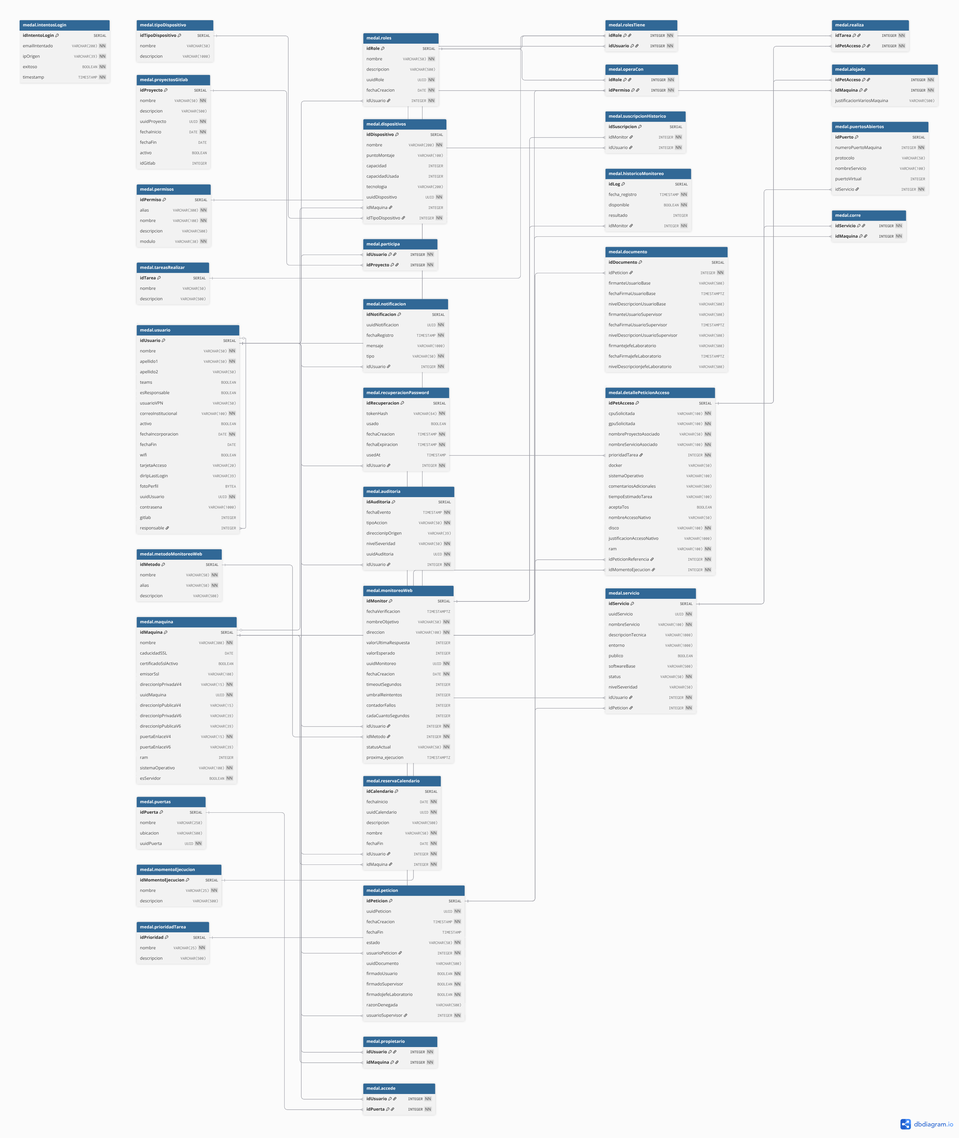
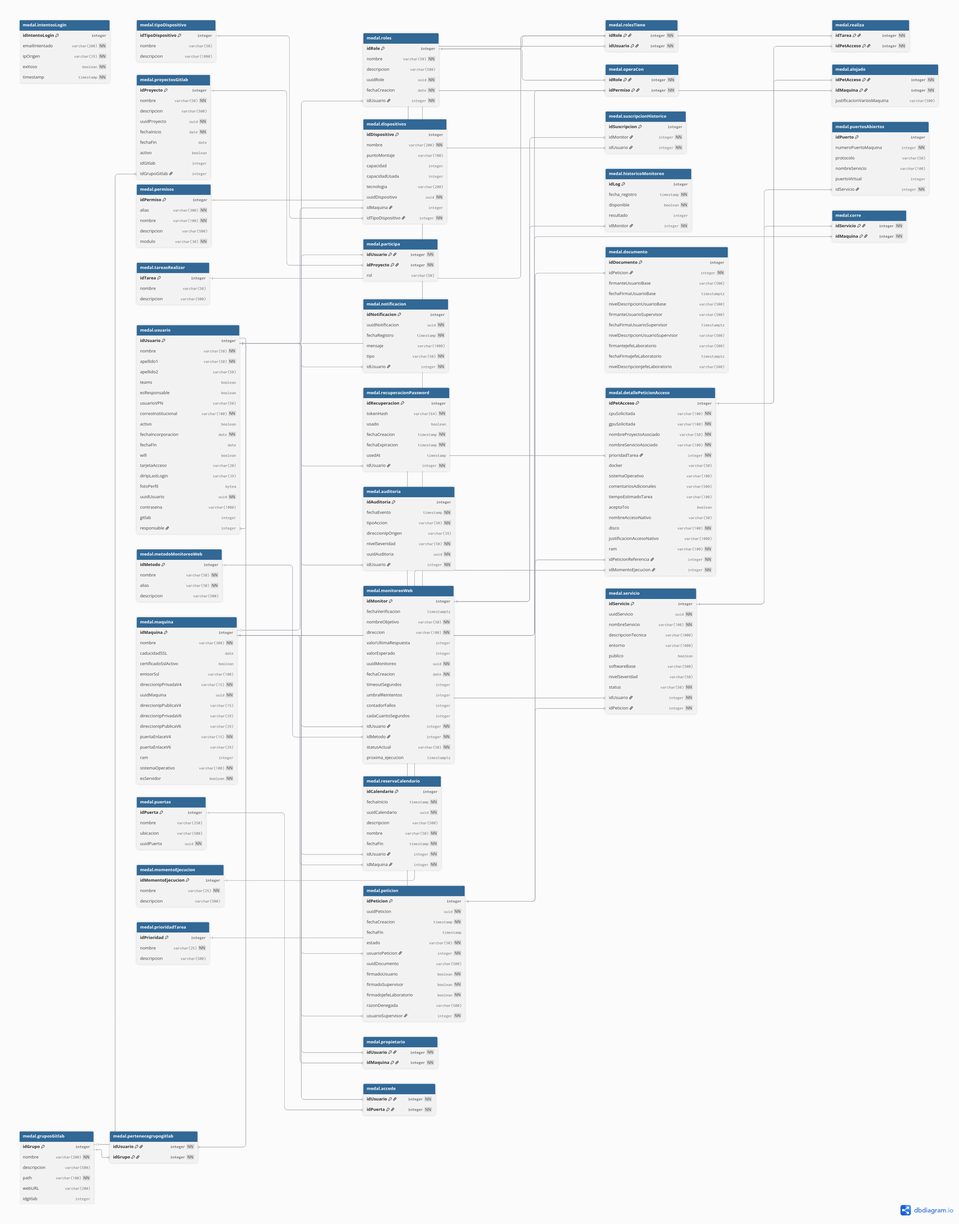
Update de la memoria en base a retroalimentación del tutor.

diff --git a/memoria/capitulos/incrementos/incremento-iv.tex b/memoria/capitulos/incrementos/incremento-iv.tex
@@ -1,5 +1,5 @@
-\chapter{Incremento IV:}
-\section{Especificación y modelado:}
+\chapter{Incremento IV}
+\section{Especificación y modelado}
 
 % Se presenta a continuación el flujo de trabajo empleado en el desarrollo de las integraciones de sistemas. Para garantizar la alineación con la infraestructura existente, se consultó al coordinador de informática del centro, permitiendo así catalogar los servicios externos activos en el laboratorio MEDAL y definir el alcance de cada integración planteada.
 
@@ -49,42 +49,53 @@ RF17 & Gestión de usuarios en el NAS del laboratorio. & Incremento 4 \\
 \end{center}
 \normalsize
 
-\section{Integración de terceros: SMTP Google}
+\section{Integración de terceros SMTP Google}
 
 Para el sistema de notificaciones, se ha integrado el servicio de mensajería de Google (Gmail), aprovechando la infraestructura preexistente en el laboratorio y sabiendo que el volumen de envíos se mantenga dentro de los umbrales de seguridad permitidos por el proveedor. La integración técnica se realiza mediante contraseñas de aplicación. El sistema de correo electrónico trabaja con un modelo editor suscriptor donde hay presentes diferentes tipos de editores. Entre los editores se puede encontrar a la API que delega la tarea de envío de correos electrónicos al Worker y el sistema de monitorización y el cron con su servicio de notificaciones. Este sistema permite el desacople de latencias sobre los endpoints presentes en la API dando una experiencia fluida al usuario. \cite{npm_nodemailer_usage, npm_nodemailer} 
  
 % Siguiendo la filosofía de diseño modular del proyecto, este servicio se ha implementado mediante una arquitectura dirigida por eventos (Event-Driven Architecture). Bajo este enfoque, la API actúa como el editor, emitiendo eventos de dominio ante acciones relevantes, mientras que el módulo de correo funciona como el Suscriptor. Esta estructura permite un procesamiento asíncrono donde el módulo de notificaciones gestiona la carga de manera independiente al flujo principal de la API, desacoplando la latencia del protocolo SMTP de los tiempos de respuesta de los endpoints.
 
 
-\section{Integración de terceros: Servidores Linux}
+\section{Integración de terceros Servidores Linux}
 Para la integración de los servidores linux se propone la herramienta mencionada en el incremento III que se encarga de la creación de entorno de desarrollos exclusivos para cada investigador.
 
-\section{Integración de terceros: QNAP}
+\section{Integración de terceros QNAP}
 
 Según la información presente en foros y la información oficial de la plataforma, es necesario formar parte del Developer Program para poder acceder a la API. \cite{qnap_developer, reddit_qnap_automation} 
 
 
-\section{Integración de terceros: LDAP y VPN}
-Tras investigación y la falta de documentación oficial en respuesta a las necesidades, se podría plantear webScrapping o el uso de algún modelo de inteligencia artificial para la realización de la tarea. \cite{elconfidencial_claude_computer_use} 
+\section{Integración de terceros Gitlab}
 
-\section{Integración de terceros: Gitlab}
-
-\subsection{Descripción del servicio instalado:}
+\subsection{Descripción del servicio instalado}
 
 La arquitectura actual del sistema se basa en un microservicio desplegado mediante \texttt{Docker}. Tras analizar las diversas metodologías de integración con servicios externos, se ha determinado que el mejor diseño consiste en establecer una comunicación vía \textbf{API}, empleando la autenticación mediante \textbf{tokens de usuario} para garantizar la seguridad y eficiencia en el intercambio de información. \cite{GITLAB_TOKEN}
 
 \subsection{Operaciones permitidas con este servicio de terceros en la página web:}
 El sistema permite las siguientes operaciones con este servicio de terceros:
+
 \begin{itemize}
-  \item \texttt{Creación de nuevos usuarios.}
-  \item \texttt{Modificación de nombres de usuarios de cuentas ya existente.}
-  \item \texttt{Creación de nuevos repositorios de código.}
-  \item \texttt{Obtención de información general asociada a un proyecto e historial de commits.}
-  \item \texttt{Archivar y Desarchivar proyectos en Gitlab.}
-  \item \texttt{Bloqueo de usuarios.}
-  \item \texttt{Modificación de los integrantes colaboradores en un repositorio.}
+\item \texttt{Creación de nuevos usuarios en el sistema.}
+\item \texttt{Modificación de nombres de usuario de cuentas existentes.}
+\item \texttt{Bloqueo de usuarios.}
+\item \texttt{Creación de nuevos repositorios en el namespace del usuario root.}
+\item \texttt{Obtención de información general de un proyecto, incluyendo estadísticas y historial de commits.}
+\item \texttt{Consulta de repositorios con estadísticas para usuarios individuales y grupos.}
+\item \texttt{Modificación de los colaboradores de un repositorio, a excepción del owner.}
+\item \texttt{Gestión de acceso en repositorios de grupo, permitiendo añadir usuarios como invitados sin modificar la configuración del grupo.}
+\item \texttt{Archivado y desarchivado de repositorios.}
+\item \texttt{Sincronización automática mediante un worker que mantiene actualizada la base de datos interna con la información más reciente de los repositorios.}
 \end{itemize}
+
 Todo esto se realiza mediante la integración a través de la cuenta de \textbf{root}.
+
+A pesar de estas posibilidades el trabajo actual tiene ciertas limitaciones:
+\begin{itemize}
+\item \texttt{La creación de repositorios está restringida al namespace del usuario root; no es posible crearlos en namespaces de otros usuarios o grupos.}
+\item \texttt{No es posible modificar al owner de un repositorio.}
+\item \texttt{La gestión de usuarios en repositorios de grupo opera únicamente a nivel de invitado, sin posibilidad de modificar roles internos del grupo.}
+\item \texttt{No se contemplan operaciones sobre grupos como creación, edición o eliminación.}
+\item \texttt{No hay soporte para otras entidades de GitLab como issues, merge requests o pipelines.}
+\end{itemize}
 
 En la figura \ref{fig:detalle_gitlab} se puede ver la pantalla de información específica de un repositorio. Concretamente es un mock del repositorio de gitlab de este proyecto.
 
@@ -95,7 +106,7 @@ En la figura \ref{fig:detalle_gitlab} se puede ver la pantalla de información e
  \label{fig:detalle_gitlab}
 \end{figure}
 
-\subsection{Armonización de datos:}
+\subsection{Armonización de datos}
 
 Con el objetivo de mantener una única fuente de verdad, se necesita un proceso de armonización y extracción de la información de los datos de los repositorios. Para ello se diseña el siguiente flujo ilustrando en la figura \ref{fig:flujo_gitlab}, que puede iniciarse con dos disparadores, mediante un cron que realizará la ejecución autónoma del proceso o con un evento de alta de usuario recibido a través de la cola de mensajes. Independientemente del disparador, ambas vías convergen en el orquestador, que es el componente encargado de iniciar y coordinar el proceso completo de armonización.
 
@@ -109,10 +120,15 @@ El flujo sigue los siguientes pasos. En primer lugar se itera sobre todos los us
 \end{figure}
 
 
-Esta integración permite la creación de proyectos para el usuario root en su namespace de manera guiada. En los repositorios ajenos, que figuran tras la carga del sistema, permite edición de usuarios presentes en el, salvo el usuario raíz. Permite archivar cualquiera de los repositorios presentes en el sistema. En los repositorios de grupos permite añadir gente a los repositorios sin tener pertenencia en los grupos. 
+
+La integración actual cubre las operaciones esenciales de gestión de usuarios y repositorios, pero aún existe un amplio margen de mejora. El trabajo se podría extender a la creación de repositorios a namespaces de otros usuarios y grupos, ampliar la gestión de roles más allá del nivel de invitado en repositorios de grupo, e incorporar operaciones completas sobre grupos. A más largo plazo, se puede contemplar una mayor cobertura de la API de GitLab para dar soporte a entidades como issues, merge requests y pipelines, con el objetivo de ofrecer una integración más completa y autónoma desde la propia aplicación.
+
+\section{Marco teórico Integración de terceros LDAP y VPN}
+Tras investigación y la falta de documentación oficial en respuesta a las necesidades, se podría plantear webScrapping o el uso de algún modelo de inteligencia artificial para la realización de la tarea. \cite{elconfidencial_claude_computer_use} 
 
 
-\section{Integración de Terceros: Sistema de identificación de usuarios (SIU UPM)}
+
+\section{Marco teórico Integración de Terceros Sistema de identificación de usuarios (SIU UPM)}
 
 En este punto, nos encontramos en la situación de que el sistema debe permitir al usuario identificarse de manera segura. Podemos encontrar principalmente dos tipos de usuarios.
 
@@ -132,3 +148,12 @@ En primera instancia, el objetivo es utilizar el SIU para el personal asociado a
  \label{fig:diagrama_identificacion}
 \end{figure}
 
+\section{Marco teórico Integración de Terceros Gestor de Puertas NUKI}
+Para la integración de este servicio, basándome en la documentación oficial de Nuki, se podría realizar la integración vía API, disponible en el portal de desarrollador \href{https://api.nuki.io/}{API de Nuki}.
+
+
+\section{Marco teórico Integración de Terceros Servicio de @firma:}
+Para la integración del servicio de firma electrónica se han dado los primeros pasos, se ha creado un servicio gestionable desde la página web con apache tomcat, donde se deben desplegar los servicios de @firma para su integración. Tras haber realizado esto, se tendría que incorporar a la web. \cite{autofirma2026manual} 
+
+\section{Marco teórico Servidores Linux}
+En el incremento III se proporcionan unos ejecutables de automontaje y creación de entornos de usuario para la ejecución sobre las máquinas. El siguiente paso, para finalizar la integración sería la creación de un conector entre los ejecutables y el servicio de este proyecto. 

diff --git a/memoria/capitulos/02_metodologia.tex b/memoria/capitulos/02_metodologia.tex
@@ -1,17 +1,17 @@
-\chapter{Metodología y Ciclo de Vida:}
-\section{Ciclo de Vida:}
+\chapter{Metodología y Ciclo de Vida}
+\section{Ciclo de Vida}
 
 Para la realización del TFG se va a utilizar un ciclo de vida \textbf{Incremental}. Se va a utilizar este enfoque para abordar las tareas de forma modular a la hora de integrar los servicios externos. 
 
 
-\subsection{Incrementos:}
+\subsection{Incrementos}
 El proyecto se va a dividir en los siguientes incrementos: 
 
-\subsubsection{Incremento I: Definición de requisitos y de tecnologías}
+\subsubsection{Incremento I Definición de requisitos y de tecnologías}
 
 En el primer incremento se van a definir los requisitos principales que rigen la aplicación y las tecnologías que se van a usar en el resto de incrementos.
 
-\subsubsection{Incremento II: Backend y Frontend de la aplicación}
+\subsubsection{Incremento II Backend y Frontend de la aplicación}
 
 En este incremento se va a trabajar con la parte central del proyecto, el core, donde se va a encontrar el ciclo de vida del usuario. Esta parte incluye la base de datos relacional de los usuarios y el periodo de pertenencia en el grupo.
 
@@ -20,7 +20,7 @@ Las funcionalidades que se buscan implementar en este ciclo son la gestión de r
 \notaseguridad{Hay que destacar que en el sistema la base de datos que se construye va a ser el \textbf{Single Source of True} \cite{atlassian_ssot},esto se debe a que va a ser el punto centralizado donde está contenido toda la información y todos los permisos que tiene un usuario. De esta manera se puede minimizar el vector de ataque con cuentas de usuarios que ya no están o servicios que no deberían seguir funcionando.}
 
 
-\subsubsection{Incremento III: Infraestructura}
+\subsubsection{Incremento III Infraestructura}
 
 En este incremento se van a gestionar los conflictos que se encuentran en los servidores con los usuarios nativos. Las funcionalidades principales a implementar son los conectores con los servidores y la gestión de recursos de cada usuario. Además se mantendrá un registro de autorizaciones de los servicios que tiene cada una de las personas. 
 
@@ -35,32 +35,32 @@ Los servicios al personal tendrán cinco estados:
 \end{itemize}
 
 
-\subsubsection{Incremento IV: Integración con servicios externos}
+\subsubsection{Incremento IV Integración con servicios externos}
 
 En este incremento se busca trabajar con APIs de terceros para poder gestionar servicios asociados. Dentro de este paso estarían las conexiones con el GitLab, Microsoft Teams y los servicios de VPN.
 
 
-\subsubsection{Incremento V: Auditoría y Cumplimiento}
+\subsubsection{Incremento V Auditoría y Cumplimiento}
 En este incremento se busca la implementación de un módulo de trazabilidad para medir la robustez. Debido a la estimación en la memoria intermedia de este incremento se debe rescindir. 
 
 Para ello, se tomarán como referencia las directrices del \textbf{NIST Cybersecurity Framework (CSF)}, específicamente en las funciones de \textit{Protect} (Protección) y \textit{Detect} (Detección). Se implementará un sistema de \textit{logging} exhaustivo que garantice la trazabilidad de todas las operaciones de provisión de servicios, cumpliendo con las recomendaciones del estándar \textbf{NIST SP} sobre gestión de registros de log. \cite{nist_csf}
 
 
-\subsection{Estructura de los incrementos:}
-El primer ciclo, es el único exento de esta estructura ya que se definen globalmente los requisitos que se deben cumplir en el sistema y las tecnologías que se van a usar en primera instancia.  
+\subsection{Estructura de los incrementos}
+El primer incremento y el cuarto incremento, son los único exentos. El primero está exento ya que se definen globalmente los requisitos que se deben cumplir en el sistema y las tecnologías que se van a usar en primera instancia.  El cuarto se encuentra exento ya que se explican posibles soluciones con marco teórico y la integración de gitlab tienen su propia información. 
 
-\subsubsection{Especificación y modelado:} 
+\subsubsection{Especificación y modelado} 
 
 En esta etapa se revisan los requisitos y las tecnologías que se van a usar en busca de detalles más específicos. Además, se van a diseñar los diferentes casos de uso del incremento. 
 
-\subsubsection{Diseño de la solución:}
+\subsubsection{Diseño de la solución}
 
 Diseño de las pantallas que se van a utilizar y los botones que controlan las diferentes pantallas. Definición de la lógica que se va a utilizar en la implementación. 
 
-\subsubsection{Implementación y codificación:}
+\subsubsection{Implementación y codificación}
 Programación de la lógica de negocio de cada uno de los incrementos. 
 
-\subsubsection{Validación y cierre:}
+\subsubsection{Validación y cierre}
 Pruebas de cada una de las funcionalidades individuales y pruebas de integración con los ciclos anteriores. Documentación técnica para la memoria del TFG.
 
 En el apartado de validación y cierre se van a documentar casos de ataque asociados al incremento para verificar la seguridad de la aplicación o servicio.

diff --git a/memoria/capitulos/06_ficha_final_horarios.tex b/memoria/capitulos/06_ficha_final_horarios.tex
@@ -1,0 +1,22 @@
+
+\chapter{Trabajo final realizado}
+\section{Resumen del trabajo realizado para la entrega final}
+% En la última parte del proyecto, se han finalizado los módulos restantes para la finalización de la formación en el programa del TFG. En el ámbito del de diseño y desarrollo se han implementado las pantallas de calendario, que permitirán al personal investigador la reserva de horas de cómputo. En el requisito de de la prevención de acceso nativo junto a la herramienta de code-server se ha diseñado la solución final que junto scripts son capaces de proporcionar entornos de desarrollo virtualizados y seguros. Además de esto, se ha perfeccionado la integración de terceros de gitlab, en el ámbito de armonización de los datos en nuestra base de datos de verdad. Por último se han creado pruebas de usabilidad del producto mínimo viable desarrollado así como su evaluación mediante el UEQ. Se ha realizado el análisis de los resultados.
+
+% En la última etapa del proyecto se han completado los módulos restantes que conforman el alcance del TFG. En el ámbito del diseño y desarrollo, se han implementado las pantallas de calendario, que permitirán al personal investigador reservar franjas horarias de cómputo de forma autónoma. Respecto a la prevención del acceso nativo a las máquinas, se ha diseñado e implementado la solución definitiva que, mediante scripts especializados, es capaz de proporcionar entornos de desarrollo virtualizados y seguros en combinación con la herramienta code-server. Asimismo, se ha perfeccionado la integración con GitLab, consolidando la armonización y consistencia de los datos en la base de datos como fuente de verdad del sistema. Por último, se han diseñado y llevado a cabo pruebas de usabilidad sobre el producto mínimo viable desarrollado, evaluando los resultados obtenidos mediante el cuestionario UEQ (User Experience Questionnaire) y analizando las conclusiones derivadas de dicha evaluación.
+
+En la última etapa del proyecto se han completado los módulos restantes de formación del TFG. En el ámbito de diseño de la solución y su desarrollo se han implementado las pantallas de calendario, las cuales permitirán al personal investigador para la reserva de franjas horarios de cómputo. Esto, permite una mayor organización de los recursos de las máquinas. Respecto al acceso nativo de las máquinas, se ha diseñado e implementado una solución que mediante unos scripts de automatización es capaz de proporcionar entornos de desarrollo virtualizados y seguros junto a los contenedores de code-server, se ha pasado a producción en uno de los servidores del laboratorio. Además, se ha mejorado la integración con el servicio de Gitlab, consolidando la armonización y consistencia de los datos presentes en la base de datos como fuente única de verdad en el sistema. Por último se han diseñado y llevado a cabo pruebas de usabilidad sobre el producto mínimo viable para su posterior evaluación mediante técnicas de evaluación en entrevistas y el relleno del cuestionario del UEQ para su posterior análisis. Con respecto al resto de integraciones, se realiza un pequeño marco teórico para poder conocer que recursos están a disposición para el desarrollo e incorporación. Debido a la mejora de la integración de gitlab no se ha podido llevar a cabo la integración de NUKI. 
+
+
+\section{Cronograma final de gannt}
+En la figura \ref{fig:gantt_mermaid_final} se puede ver el cronograma final de desarrollo.
+
+\clearpage
+\begin{sidewaysfigure}[pH]
+    \centering
+    \includegraphics[width=\textheight, keepaspectratio]{gannt-final/gannt_final.png}
+    \caption{Cronograma del desarrollo final.}
+    \label{fig:gantt_mermaid_final}
+\end{sidewaysfigure}
+
+

diff --git a/memoria/capitulos/incrementos/incremento-iii.tex b/memoria/capitulos/incrementos/incremento-iii.tex
@@ -31,8 +31,8 @@ RF5 & & Interfaz en tiempo real de los recursos consumidos por los contenedores 
 
 
 
-\section{Diseño de la solución:}
-\subsection{Estructura dockerizada de CodeServer:}
+\section{Diseño de la solución}
+\subsection{Estructura dockerizada de CodeServer}
 Los CodeServer son docker especializados con un formato de uso similar a Visual Studio Code. \href{https://github.com/coder/code-server?tab=readme-ov-file}{Proyecto Code Server.}
 
 En la figura \ref{fig:code_server} se detalla el proceso de comunicación entre el cliente y el servicio \texttt{code-server}. En primer lugar, el cliente establece una conexión a través de un servidor \textbf{Nginx}, que actúa como intermediario gestionando la autenticación por usuario y contraseña. Tras la validación, el tráfico se redirige a la instancia específica de cada cliente, quien opera en un entorno aislado y controlado, garantizando una gestión segura y virtualizada de los recursos del servidor. \cite{github_code_server}
@@ -46,7 +46,7 @@ En la figura \ref{fig:code_server} se detalla el proceso de comunicación entre 
 \end{figure}
 
 
-\section{Implementación y Codificación:}
+\section{Implementación y Codificación}
 
 Para cumplir con los requisitos de este incremento se realiza la siguiente implementación.
 
@@ -77,11 +77,11 @@ Para facilitar el cambio organizacional se proporciona un script de instalación
 
 
 
-\section{Validación y Cierre:}
+\section{Validación y Cierre}
 
 Con el objetivo de validar la estabilidad del sistema, se han realizado pruebas a dos niveles principales, el primero de ellos a nivel de CPU y el segundo de ellos a nivel gráfica. En ambos casos, se han validado con pruebas de estrés.
 
-\subsection{Pruebas de estrés a la CPU:}
+\subsection{Pruebas de estrés a la CPU}
 
 Para la verificación de funcionamiento de la CPU se hace uso del mandato \texttt{stress-ng} \cite{stress_ng_manpage}. Con el código \ref{lst:stress_ng_taskset} se realizan unas pruebas en unos núcleos específicos que demuestran la posibilidad de ejecución multicore en la máquina. 
 
@@ -90,7 +90,7 @@ taskset -c 29,30,31 stress-ng --cpu 3 --cpu-load 80 -t 1m
 \end{lstlisting}
 
 
-\subsection{Pruebas de estrés a la GPU:}
+\subsection{Pruebas de estrés a la GPU}
 
 Para la validación de la prueba de estrés de la GPU para realizar las pruebas se hace uso de un script de python mediante la librería de torch, que crea tensores de números aleatorios hasta consumir la totalidad de espacio disponible en la gráfica, validando la conexión con el driver y su funcionamiento bajo estrés de reservas. El código está disponible en el anexo \ref{lst:stress_vram_python}.
 

diff --git a/memoria/capitulos/05_conclusiones.tex b/memoria/capitulos/05_conclusiones.tex
@@ -1,2 +1,13 @@
 \chapter{Conclusiones y trabajo futuro:}
 % TODO: Hacer. BDD de virus, integrar el proceso de @firma en la página web en vez del upload. Integración con el resto de servicios externos. 
+
+Este proyecto ha permitido desarrollar una plataforma de gestión de infraestructura que centraliza el control sobre usuarios, máquinas y repositorios, proporcionando una solución integral para entornos que requieren un alto grado de organización y seguridad. A lo largo del desarrollo se han aplicado buenas prácticas consolidadas en la industria, como el patrón MVC en el backend, una arquitectura basada en componentes en el frontend, diseño RESTful de la API, autenticación mediante tokens JWT y el uso de prepared statements para garantizar la seguridad frente a inyecciones SQL. La base de datos actúa como fuente de verdad única del sistema, asegurando la consistencia de la información en todo momento.
+A nivel personal, este proyecto ha puesto de manifiesto la importancia de contar con sistemas aislados, fuentes únicas de verdad y un control riguroso sobre las máquinas, con el fin de minimizar riesgos y evitar la pérdida de datos. El desarrollo por incrementos ha permitido iterar sobre las funcionalidades de forma ordenada, validando cada avance antes de abordar el siguiente.
+
+
+Aunque el proyecto cubre las funcionalidades esenciales alcanzado un producto mínimo viable, existen diversas líneas de mejora y expansión que quedan abiertas para iteraciones futuras.
+
+En el ámbito de la integración con GitLab, se contempla ampliar las funcionalidades al nivel de grupos, permitiendo una gestión más completa de los repositorios y sus miembros. En relación a los codeservers, se prevé la creación de colas de ejecución que permitan gestionar y ordenar los trabajos de manera eficiente, evitando conflictos por uso simultáneo de recursos. Además, se plantea el autodespliegue de los servicios de la página web, reduciendo la intervención manual en los procesos de puesta en producción. A nivel de arquitectura de la API, se tiene como objetivo alcanzar el máximo nivel del Richardson Maturity Model, incorporando controles HATEOAS para lograr una API completamente autodescriptible y navegable. Por último, se contempla la integración con una base de datos de firma de virus, con el fin de reforzar la seguridad del sistema frente a software malicioso en las peticiones, las upload del usuario.
+
+Además de lo anterior, quedaría añadir las integraciones externas planteadas de manera teórica.
+

diff --git a/memoria/capitulos/01_introduccion.tex b/memoria/capitulos/01_introduccion.tex
@@ -1,6 +1,6 @@
 \vspace*{-20cm} 
-\chapter{Introducción:}
-\section{Motivación: }
+\chapter{Introducción}
+\section{Motivación}
 
 En el ámbito del laboratorio Medical Analytics (en adelante MEDAL) en el Centro de Tecnología Biomédica (en adelante CTB) al estar ligado a la Universidad Politécnica de Madrid (en adelante UPM) se trata de un laboratorio con alta rotación de personal. En la rotación de personal se pueden distinguir los siguientes roles: contratados, profesores y prácticas entre otros. Cada nuevo integrante dependiendo de sus necesidades necesita acceso a diferentes servicios heterogéneos como pueden ser redes de internet, acceso a servidores y canales de comunicación entre otros. 
 
@@ -17,12 +17,12 @@ Esta falta de granularidad en el control de acceso ha derivado en problemas téc
 
 
 
-\section{Objetivos del proyecto:}
+\section{Objetivos del proyecto}
 Este Trabajo Fin de Grado surge de la necesidad de centralizar y automatizar el ciclo de vida de los usuarios dentro del grupo de investigación MEDAL. El objetivo principal es desarrollar una plataforma web que actúe como panel de control (dashboard), permitiendo la administración y provisión automática de servicios. 
 
 Esta solución no solo busca optimizar la carga administrativa, sino también mitigar los problemas derivados del \textbf{acceso nativo persistente} a los servidores del laboratorio. La plataforma propuesta permitirá orquestar estos accesos de forma granular, asegurando que la configuración de los servicios se mantenga íntegra y que cada investigador cuente con un entorno de trabajo estable y seguro, alineado con las necesidades específicas de su proyecto de investigación.
 
-\section{Estructura de la memoria:}
+\section{Estructura de la memoria}
 Para la estructuración del proyecto el documento se va a organizar de la siguiente manera:
 \begin{itemize}
   \item Incremento I: Definición de requisitos y de tecnologı́as.

diff --git a/memoria/capitulos/incrementos/incremento-i.tex b/memoria/capitulos/incrementos/incremento-i.tex
@@ -1,11 +1,11 @@
-\chapter{Incremento I:}
+\chapter{Incremento I}
 
-\section{Requisitos:}
+\section{Requisitos}
 
 En las siguientes tablas podemos ver los requisitos funcionales y no funcionales de la aplicación. En la tabla \ref{tab:rf_simple} se encuentran organizados los requisitos funcionales para el dashboard. Mientras que en la tabla \ref{tab:rnf_simple} podemos encontrar los requisitos no funcionales de la aplicación.
 
 
-\subsection{Requisitos funcionales:}
+\subsection{Requisitos funcionales}
 
 
 \begin{center}
@@ -58,7 +58,7 @@ RF14  & Registro de auditoría bajo un estándar NIST. & Incremento 5 \\
 \normalsize
 \newpage
 
-\subsection{Requisitos no funcionales:}
+\subsection{Requisitos no funcionales}
 \begin{table}[htbp]
     \centering
     \caption{Requisitos no Funcionales y su Incremento Asociado}
@@ -98,4 +98,10 @@ RF14  & Registro de auditoría bajo un estándar NIST. & Incremento 5 \\
 \bottomrule
 \end{tabularx}
 \end{table}
+
+\newpage
+
+\section{Estándares de codificación}
+
+En el desarrollo del proyecto para permitir el mantenimiento y la escalibidad se siguien las siguientes buenas práticas. El backend sigue el patrón de arquitectura Modelo-Vista-Controlador (MVC), mientras que el frontend se construye mediante una arquitectura con componentes. La API sigue un diseño RESTful, y la base de datos actúa como fuente de verdad única (single source of truth) del sistema. A nivel de seguridad, se emplea autenticación mediante tokens JWT y el uso de prepared statements para prevenir inyecciones SQL. En cuanto a la calidad del código, se aplica una nomenclatura consistente en camelCase, junto con linting y formateo automático. Por último, el control de versiones se gestiona mediante GitHub, permitiendo un seguimiento ordenado de los cambios a lo largo del desarrollo.
 

diff --git a/memoria/capitulos/04_analisis_impacto.tex b/memoria/capitulos/04_analisis_impacto.tex
@@ -16,3 +16,6 @@ Durante el desarrollo se identificó la necesidad de incorporar un sistema de mo
 % Gracias a la integración con GitLab, la gestión de los proyectos queda centralizada en una única plataforma, desde la que es posible crear y archivar proyectos, consultar el estado de la rama principal (main) de todos los proyectos del administrador, así como administrar los usuarios de dichos proyectos y gestionar las cuentas de usuario mediante su creación y bloqueo.
 
 La integración con GitLab centraliza en una única plataforma la gestión completa de los repositorios del laboratorio, lo que reduce significativamente la necesidad de acceder a múltiples herramientas externas. La posibilidad de gestionar los miembros de cada proyecto, controlar el estado de archivado y administrar las cuentas de usuario mediante la creación y el bloqueo de las mismas supone una mejora directa en la seguridad y el control de accesos, minimizando el riesgo de permisos no autorizados. En conjunto, esta integración aumenta la eficiencia operativa del administrador, reduciendo además los tiempos de gestión.
+
+\textbf{ALEJANDRO: SOBRE LOS ODS SE PODRÍA AÑADIR EL 9? CREO QUE ES EL QUE MAS ENCAJA}
+

diff --git a/memoria/main.tex b/memoria/main.tex
@@ -33,6 +33,7 @@
 \include{capitulos/01_introduccion}
 \include{capitulos/02_metodologia}
 \include{capitulos/03_plan_de_trabajo}
+\include{capitulos/06_ficha_final_horarios}
 \include{capitulos/incrementos/incremento-i}
 \include{capitulos/incrementos/incremento-ii}
 \include{capitulos/incrementos/incremento-iii}
